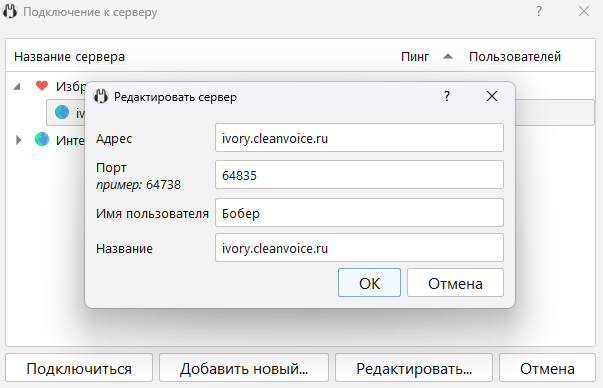
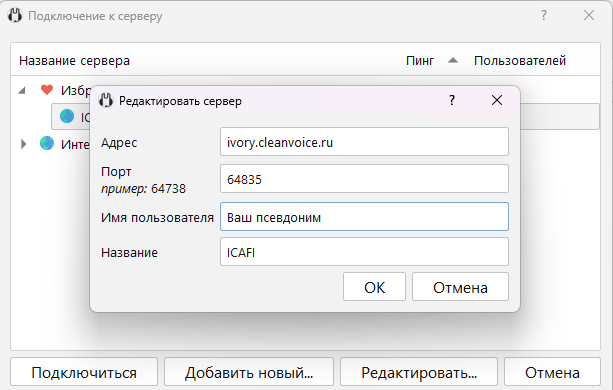
1611\2
Изменения на главной

Changed region(s): [[0.0, 0.0, 1.0, 1.0], [0.0, 0.0, 0.2687, 0.0619], [0.8657, 0.0, 0.9254, 0.0309]]

diff --git a/index.html b/index.html
@@ -25,12 +25,12 @@
             <hr>
             <div id="infoICAFI">
                 <div class="infoDiv">
-                    <h3>Пробуем сервер Mumble</h3>
-                    <h4><a href="https://vk.com/video-227915886_456239019">Видеоинструкция как все установить и настроить</a></h4>
-                    <a href="https://mumble.ru/forum/viewtopic.php?p=4#p4" target="_blank">Скачать прогу с официального сайта</a>
-                    </br><a href="https://mumble.ru/go.php?a=https://dl.mumble.info/latest/stable/client-windows-x64" target="_blank">Прямая ссылка на скачивание программы без перехода на официальный сайт</a>
-                    </br><a href="https://play.google.com/store/apps/details?id=se.lublin.mumla" target="_blank">Скачать на Андроид</a>
-                    </br><a href="https://apps.apple.com/us/app/mumble/id443472808?amp%3Bmt=8&ls=1" target="_blank">Скачать на iOS</a>
+                    <h3>Устанавливаем сервер Mumble:</h3>
+                    <a href="https://vk.com/video-227915886_456239019"><div class="aDiv">Видеоинструкция как все установить и настроить</div></a>
+                    </br><a href="https://mumble.ru/forum/viewtopic.php?p=4#p4" target="_blank"><div class="aDiv">Скачать прогу с официального сайта</div></a>
+                    </br><a href="https://mumble.ru/go.php?a=https://dl.mumble.info/latest/stable/client-windows-x64" target="_blank"><div class="aDiv">Прямая ссылка на скачивание программы без перехода на официальный сайт (x64)</div></a>
+                    </br><a href="https://play.google.com/store/apps/details?id=se.lublin.mumla" target="_blank"><div class="aDiv">Скачать на Андроид</div></a>
+                    </br><a href="https://apps.apple.com/us/app/mumble/id443472808?amp%3Bmt=8&ls=1" target="_blank"><div class="aDiv"z>Скачать на iOS</div></a>
                     <p>поле адрес - <b>ivory.cleanvoice.ru</b>,</br> порт - <b>64835</b>,</br> имя свое,</br> название сервера любое.</br> должно получиться так</p>
                     <img src="./image/style/mumle.png"/>
                     <p>на некоторых компьютерах есть проблемы с последней версией клиента, а именно при выходе из программы настройки не сохраняются и приходится постоянно настраивать их заново.
@@ -40,6 +40,7 @@
                     
                 </div>
                 <div class="infoDiv">
+                    <div>
                     <p>Описание клана:</p>
                     <p>
                         Играем взвода, турниры. Закрываем без проблем КБЗ, взрослый коллектив, живая связь mumble. Условия приема:
@@ -48,9 +49,18 @@
                             <li>средний урон 1300</li>
                             <li>возраст 16+</li>
                             <li>от 55% побед</li>
-                            <li>Минимальное количество очков КБЗ 25 штук</li>
+                            <li>Минимальное количество очков КБЗ в неделю - 25</li>
                         </ol>
                     </p>
+                    </div>
+                    <hr/>
+                    <div class="offLink">
+                        <h3>Ссылки на официальные ресурсы LESTA:</h3>
+                        <a href="https://lesta.ru/shop/wotb/events/" target="_blank"><div class="aDivoff">Премиум магазин</div></a>
+                        </br><a href="https://lesta.ru/support/ru/products/wotb/" target="_blank"><div class="aDivoff">ЦПП</div></a>
+                        </br><a href="https://lesta.ru/shop/redeem/?utm_content=bonus-code&utm_source=global-nav&utm_medium=link&utm_campaign=support" target="_blank"><div class="aDivoff">Активировать код Леста </div></a>
+                        
+                    </div>
                 </div>
             </div>
         </div>

diff --git a/index.css b/index.css
@@ -40,21 +40,63 @@ body{
   display: flex;
   justify-content:space-around;
 }
-#infoICAFI div{
- width: 48%; 
-}
+
 .infoDiv{
-  
+  width: 48%; 
   background-color: #353535;
-  margin: 0 10px 0 10px;
+  margin: 0 10px;
   color: aliceblue;
   padding: 5px;
   border-radius: 15px;
 }
 .infoDiv a{
   color: #ff7a7a;
-
+  text-decoration: none;
 }
+.aDiv{
+  background: rgb(0,0,0);
+  background: linear-gradient(0deg, rgba(0,0,0,0.6671043417366946) 9%, rgba(88,88,88,0.5970763305322129) 51%, rgba(92,92,92,0.639093137254902) 100%);
+  border: orange solid 1px;
+  border-radius: 15px;
+  text-align: center;
+  padding: 15px;
+  font-weight: 800;
+}
+.aDiv:hover{
+  background: rgb(255,255,255);
+background: linear-gradient(0deg, rgba(255,255,255,1) 9%, rgba(182,182,182,1) 51%, rgba(219,219,219,1) 100%);
+  border: rgb(0, 0, 0) solid 2px;
+  border: orange solid 1px;
+  border-radius: 15px;
+  text-align: center;
+  padding: 15px;
+  font-weight: 800;
+  color: #353535;
+}
+
+.aDivoff{
+  background: rgb(255,192,0);
+  background: linear-gradient(0deg, rgba(255,192,0,0.7371323529411764) 9%, rgba(255,178,84,0.7231267507002801) 51%, rgba(255,55,53,0.7483368347338936) 100%);
+  border: orange solid 1px;
+  border-radius: 15px;
+  text-align: center;
+  padding: 15px;
+  font-weight: 800;
+  color: #000000;
+  width: 40%;
+}
+.aDivoff:hover{
+  background: rgb(255,236,178);
+background: linear-gradient(0deg, rgba(255,236,178,0.7371323529411764) 9%, rgba(255,219,176,0.7231267507002801) 51%, rgba(255,169,168,0.7483368347338936) 100%);
+  border: orange solid 1px;
+  border-radius: 15px;
+  text-align: center;
+  padding: 15px;
+  font-weight: 800;
+  color: #000000;
+  width: 40%;
+}
+
 .infoDiv img{
   width: 100%;
 }
